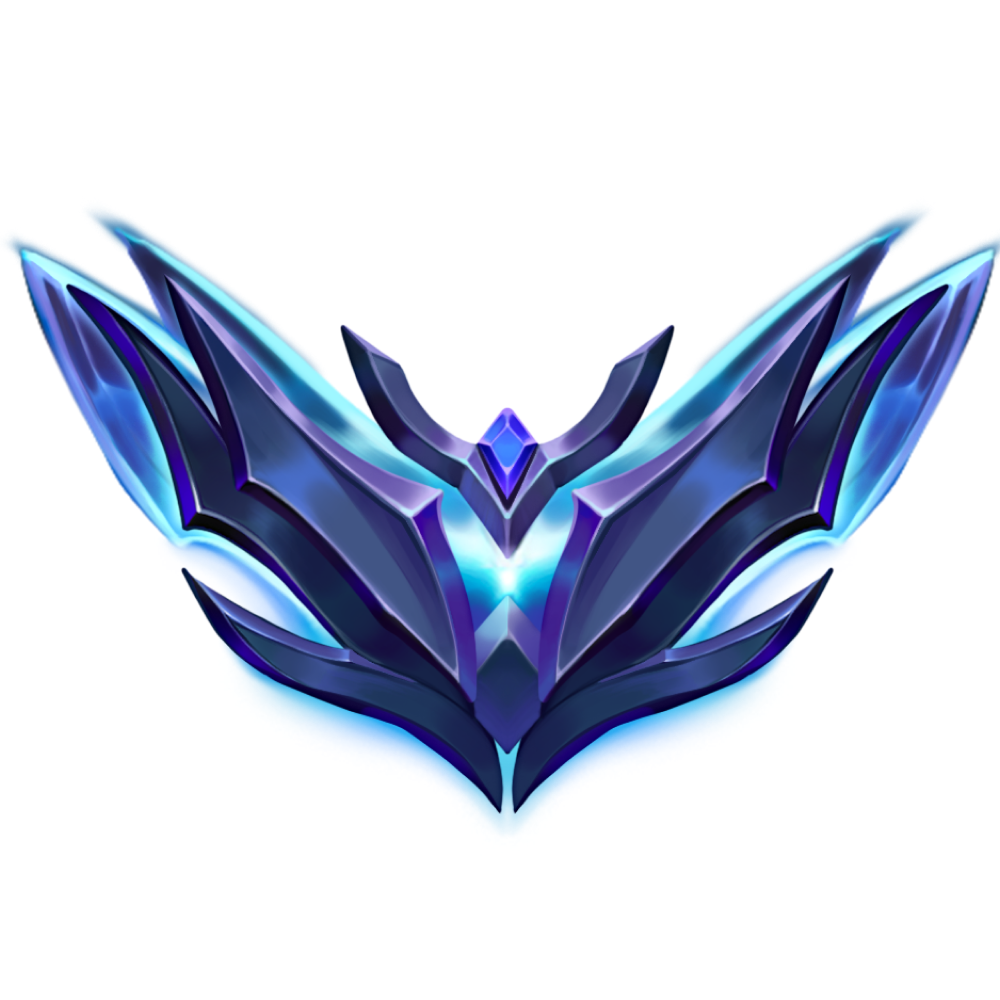
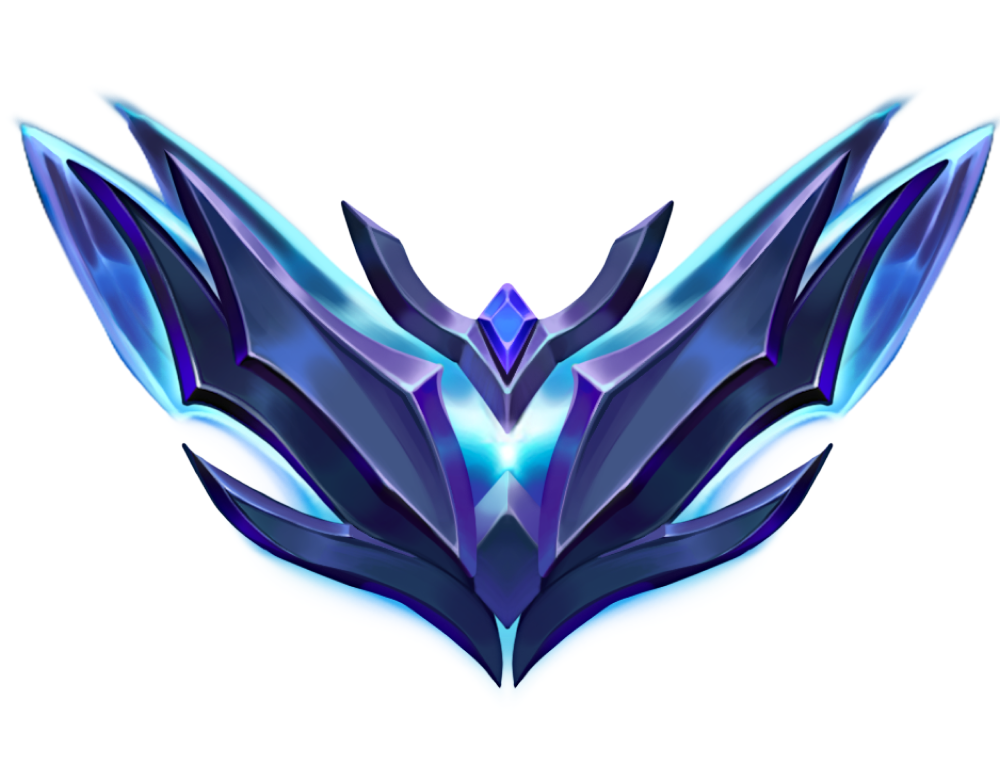
Update README and enhance SummonerInfo styles and functionality

Changed region(s): [[0.0, 0.1237, 1.0, 0.8969]]

diff --git a/frontend/summonerinsight-app/src/pages/SummonerPage/components/SummonerInfo.js b/frontend/summonerinsight-app/src/pages/SummonerPage/components/SummonerInfo.js
@@ -113,8 +113,8 @@ function MasterySection({initialMasteries}){
                         <p>{mastery.championPoints.toLocaleString()} Points</p>
                         <p>Last played: {getTimeDifference(mastery.lastPlayTime)}</p>
                         {mastery.milestoneGrades && <div className="mastery-grades">
-                            <p>Milestone:</p>
-                            {mastery.milestoneGrades.map((grade, index) => (
+                            <p>Grades obtained:</p>
+                            {Array.from(new Set(mastery.milestoneGrades)).map((grade, index) => ( // Turn milestoneGrades into a set to remove duplicates then back in Array
                                 <p key={index}>{grade}</p>
                             ))}
                         </div>}

diff --git a/frontend/summonerinsight-app/src/assets/css/pages/SummonerPage/components/SummonerInfo.css b/frontend/summonerinsight-app/src/assets/css/pages/SummonerPage/components/SummonerInfo.css
@@ -112,6 +112,10 @@
     flex-direction: column;
     align-items: center;
 }
+#summoner-info .ranked-element .rank-icon .image-container{
+    width: 75%;
+    height: auto;
+}
 #summoner-info .ranked-element .rank-icon .image-container img {
     width: 100%;
     height: auto;

diff --git a/README.md b/README.md
@@ -6,7 +6,6 @@ Website showing users and champion data of League of Legends
 Define global flags in Context.js and import them in other components (not constant functions).
 
 ## Ideas for next stuff
-- [x] Add champion spells in the champion tooltip
 - [ ] Figure out some style for the masteries milestones
 - [ ] Filter matchhistory by queuetype and gamemode
 - [ ] Summonersearchbar in Nav bar when not on home page
